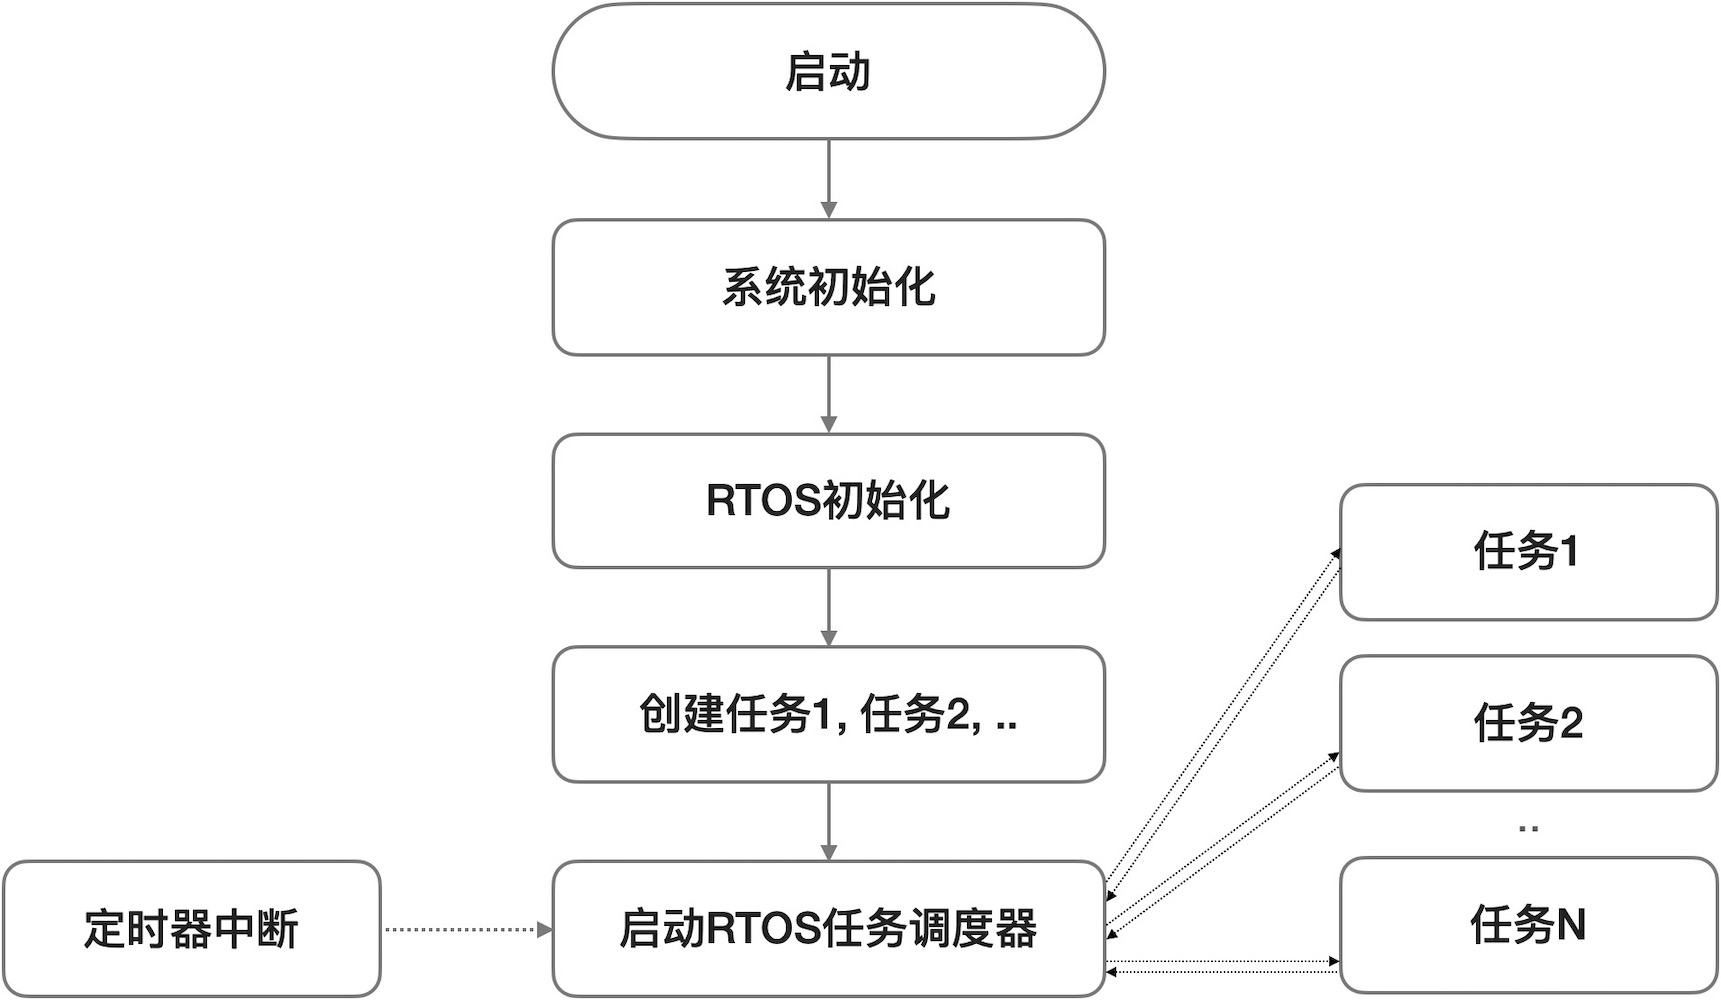
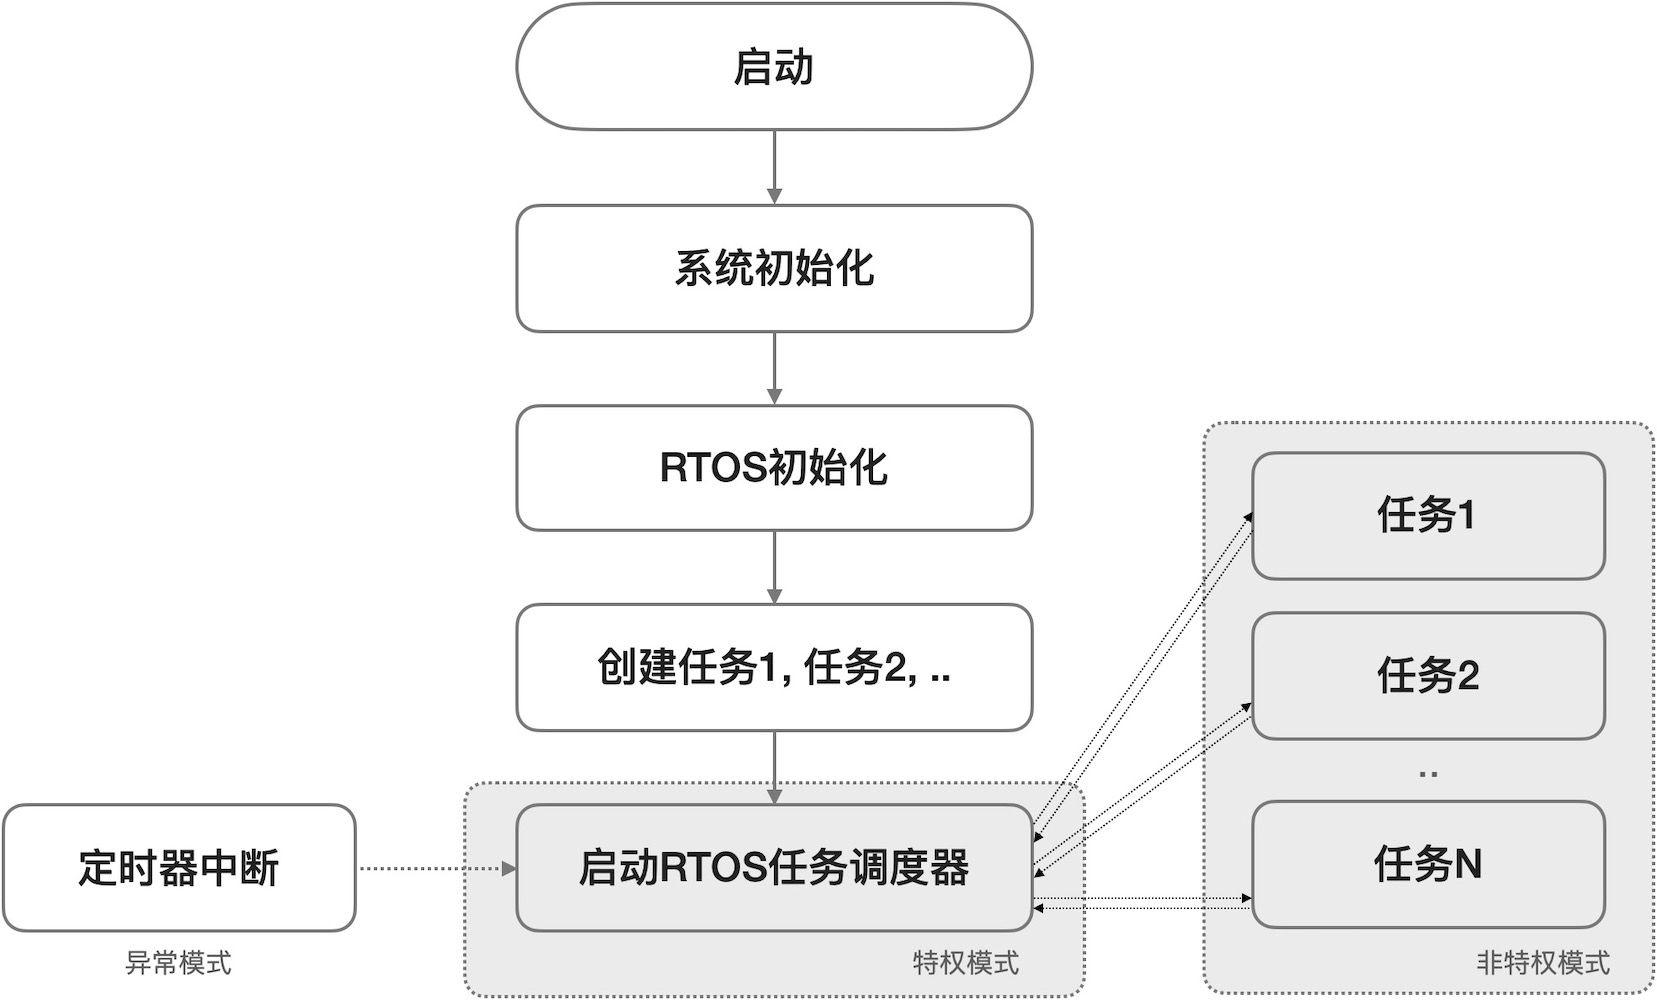
update ch3.2

diff --git a/source/c3_ec_software/ec_non_os_software.rst b/source/c3_ec_software/ec_non_os_software.rst
@@ -2,10 +2,114 @@
 3.2 无OS的嵌入式系统软件
 ===========================
 
-绝大多数嵌入式系统是无OS的模式
+绝大多数嵌入式系统软件并不使用OS，本节将探讨无OS的嵌入式系统软件设计模式。我们知道，无论多么精简的RTOS都会占用嵌入式系统的Code和Data资源，
+占用多少KB的ROM和RAM是RTOS的关键指标之一，当然RTOS的任务调度器也会占用CPU的时间。功能和业务逻辑相对简单的嵌入式系统所使用的MCU性价比高，
+意味着CPU的时钟速度尽可能低(低速带来多方面的低成本效应)，ROM和RAM资源也尽可能小(够用就好)，RTOS所占用的资源在这样的系统中比例将很高。
+
+当我们不使用RTOS时，最好的嵌入式系统软件设计方法是，仍按照功能和业务逻辑将软件分割为多个子功能或子业务并编写相应的子程序，系统初始化完毕后，
+在一个无穷循环内顺序地调用各个功能子程序即可。如图3.5所示。不使用OS时，嵌入式系统MCU只需要两个工作模式：特权模式和异常模式，前者循环执行正常主循环，
+后者响应中断或处理软硬件异常。图中的每一个子程序都可以访问系统的任何资源，所有子程序的权限是相同的。
+
+.. image:: ../_static/images/c3/no_os_es_software_structure.jpg
+  :scale: 40%
+  :align: center
+
+图3.5  无OS的嵌入式系统软件模型
+
+假设某个无OS嵌入式系统软件有3个功能性子程序，“子程序1”执行异步串行通讯功能(从串口接收指令并执行指令)，“子程序2”执行传感器的数据采样和滤波，
+“子程序3”负责刷新显示器和指示灯状态。很显然，“子程序1”的执行时间会随着串口接收信息变化，如果没有新的接收消息时几乎不占用CPU时间，另外两个子程序
+的执行时间相对固定，尤其数据采样和处理“子程序2”。另外，使用中断服务程序处理系统按钮，按钮可以调整数据采样分辨率、时间间隔等。
+
+图3.6给出无OS软件的执行过程。由于“子程序1”的执行时长受串口接收到消息的影响，假设图中第二次循环时“子程序1”的执行时间很短，执行数据采样的“子程序2”
+的执行间隔也随之变短，当“子程序1”的执行时间很长数据采样间隔也随之变长。响应中断和异常也会影响传感器数据的采样间隔。按功能子程序轮转方式的无OS软件
+无法确保任何一个功能程序的正常执行间隔，或者说无法保证在预定的时间点之前完成，所以这样的软件系统属于非实时的。为了改善这样的软件系统的实时性，
+我们需要尽可能地缩短每一个功能性子程序的执行时间，当执行所有子程序的循环周期接近或小于预定的实时处理周期时，这样的系统就属于实时的。
+
+.. image:: ../_static/images/c3/no_os_es_software_execute.jpg
+  :scale: 35%
+  :align: center
+
+图3.6  无OS的嵌入式系统软件执行过程
+
+与带有OS的嵌入式系统软件的执行过程(如图3.7)相比，无OS软件主程序的循环周期完全受每一个子程序的执行时长影响。即使非抢占型的情况，RTOS调度器仍能
+确保每一个任务按固定的间隔周期执行，抢占型RTOS还能根据任务优先级来调度任务执行。假设图3.7中的三个任务与图3.6中的三个功能性子程序分别实现相同功能，
+任务2执行传感器数据采集必须确保固定时间间隔(称作采样周期)，借助于RTOS很容易实现这一实时性要求。但无OS的嵌入式系统软件想要实现这样的目的就相对更难，
+需要系统软件设计者精心测试和改善才能达成的。
+
+.. image:: ../_static/images/c3/rtos_based_es_software_execute.jpg
+  :scale: 40%
+  :align: center
+
+图3.7  有OS的嵌入式系统软件执行过程
+
+异常处理程序(Exception Handler)的执行将会打破常态的主循环，无论是否有OS，允许被响应的中断或软硬件异常发生时，正在执行的任务或子程序将被暂停，
+系统先执行EH然后再返回被暂停的地方(称作断点)继续执行。所有优秀的嵌入式系统系统软件的EH都保持尽可能短的执行时间，譬如几个微妙的时间，以保证正常主循环
+的执行周期不受EH的影响。
 
 
+另一种无OS的嵌入式系统软件设计方法与RTOS的任务驱动相似，称之为中断驱动的软件。现代MCU支持上百个中断请求源，包括外部输入中断、内部功能单元中断等，
+譬如串口(UART)接收到字符的中断和字符发送完毕的中断。中断驱动的无OS嵌入式系统软件的架构如图3.8所示，当中断请求发生时，CPU立即退出轻度睡眠状态，
+执行中断服务程序，然后继续进入轻度睡眠。
+
+.. image:: ../_static/images/c3/no_os_es_software_interrupt_driven.jpg
+  :scale: 40%
+  :align: center
+
+图3.8  中断驱动的(无OS的)嵌入式系统软件架构
+
+中断驱动的嵌入式系统软件的主循环仅有一行代码，即进入睡眠模式，这样可以确保每次响应中断之后再次进入睡眠模式。伪码如下：
+
+.. code-block::  c
+  :linenos:
+
+    ISR1 () {
+      // functional code for ISR1 
+    }
+    Task2 () {
+      // functional code for ISR2 
+    }
+    Task3 () {
+      // functional code for ISR3 
+    }
+
+    main () {
+      // Initialize the system hardware
+      // initialize the system interrupt
+      while(1) {
+         entrySleepMode();
+      }
+    }
+
+中断驱动的嵌入式系统软并不确保实时性。任意中断请求发生并被响应时或有其他中断请求，根据中断系统初始化时所设定的优先级诸葛响应中断，如果高优先级中断
+服务程序的执行时间很长将会使得低优先级中断延迟响应。但是使用高优先级的定时中断来保证前面提到的“传感器数据采集和处理”固定周期，使用相似的思路可以
+达成某些特定任务的实时性要求。
+
+在异常处理模式执行的中断服务程序不宜太长时间，而且异常模式下对系统内资源的访问可能存在冲突，譬如两个不同优先级的中断服务程序可能会访问同一个系统资源，
+如果处理不慎则会引起系统硬件异常。为了避免这种风险，我们可以采用中断服务程序向主循环的子程序发送消息的形式来解决，也就是将执行时间较长的中断服务程序分成两部分，
+需要快速响应的且执行时间较短的部分仍放在中断服务程序中，执行时间较长的部分作为一个子程序的形式放在主循环程序体内，当第一部分执行完毕后设置一个布尔型变量为True，
+当主循环中的子程序检测到该变量为True时则执行第2部分程序。这种程序架构如图3.9所示。
+
+.. image:: ../_static/images/c3/no_os_es_software_interrupt_polling.jpg
+  :scale: 40%
+  :align: center
+
+图3.9  中断驱动和子程序轮转的(无OS的)嵌入式系统软件架构
+
+使用中断驱动和子程序轮转的无OS嵌入式系统软件的基本设计思路是，将系统功能划分为高实时性任务和低实时性任务，并将高实时性任务按执行时间长短分为两类：
+短时间型和长时间型。短时间型的高实时性任务的代码放在中断服务程序内，并把相应的中断设为最高优先级；把长时间型的高实时任务分割成两部分，需要快速响应
+的部分代码放在中断服务程序内，其他功能代码设计成子程序放在主循环体内等待消息则执行，而且这部分代码如果出现大延迟仍能达成可接受的实时性。
+对于低实时性任务来说，代码实现的方法不受限制，可采用低优先级中断驱动型，也可以采用子程序轮转型。
+
+--------------------------
+
+本节虽然给出几种无OS嵌入式系统软件的设计模式和方法，但实际的模式远不止这些。嵌入式系统软件的开发并不像桌面计算机系统那样具有统一的开发环境、
+开发架构和设计方法，由于RTOS的类型繁多且没有统一的API和开发环境，嵌入式系统软件开发工作量完全取决于系统功能的复杂度，功能复杂的和资源丰富的系统
+软件开发建议采用RTOS，借助于RTOS的多任务调度器更容易管理系统资源和功能解藕的软件设计。
 
 
+--------------------------
 
+参考文献：
+::
 
+.. [1] 

diff --git a/source/c3_ec_software/ec_os_software.rst b/source/c3_ec_software/ec_os_software.rst
@@ -19,7 +19,8 @@
 
 图3.1  多任务RTOS的模型
 
-使用RTOS编写嵌入式系统软件的(伪码)风格如下示例：
+现代MCU大多数都支持RTOS，如支持特权的和非特权的工作模式、异常模式等。一般来说，RTOS内核工作在特权模式，可以访问和管理系统内全部软硬件资源，
+用户任务程序工作在非特权模式只能访问属于本任务的资源。异常模式是专门处理软硬件异常和中断服务。使用RTOS编写嵌入式系统软件的(伪码)风格如下示例：
 
 .. code-block::  c
   :linenos:
@@ -130,7 +131,7 @@ FreeRTOS允许用户代码和第三方库代码直接访问嵌入式系统的硬
 
 --------------------------
 
-
+对RTOS稍作了解之后，以FreeRTOS应用为例简单分析一个示例。
 
 
 --------------------------

diff --git a/source/c2_ec_structure/system_mode.rst b/source/c2_ec_structure/system_mode.rst
@@ -68,7 +68,7 @@ Bootlaoder程序也是固化在片内ROM(用户不能修改)，然后从ISRAM中
 ESP32通过QSPI外扩的NOR型FlashROM存储器的分区细节，最前面的64KB已经被乐鑫详细地定义，其他存储单元的用法和分区容量由用户通过分区表来指定。
 
 .. image:: ../_static/images/c2/esp32_qspiflashrom_usage.jpg
-  :scale: 25%
+  :scale: 50%
   :align: center
 
 图2.26  ESP32外扩的QSPI FlashROM存储器分区
